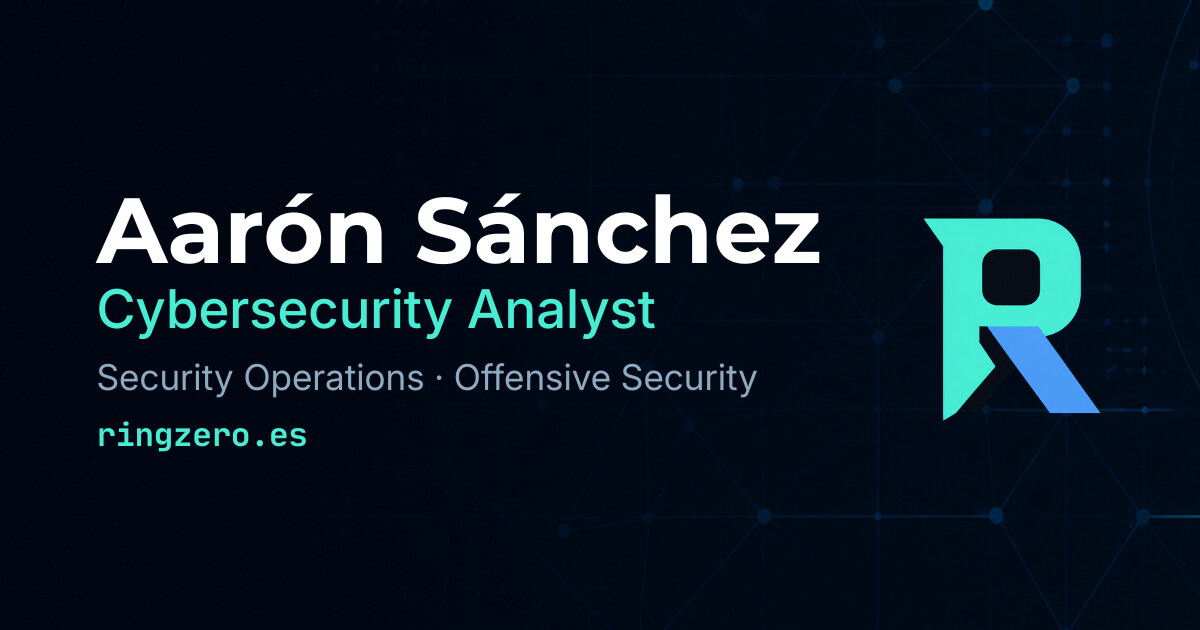
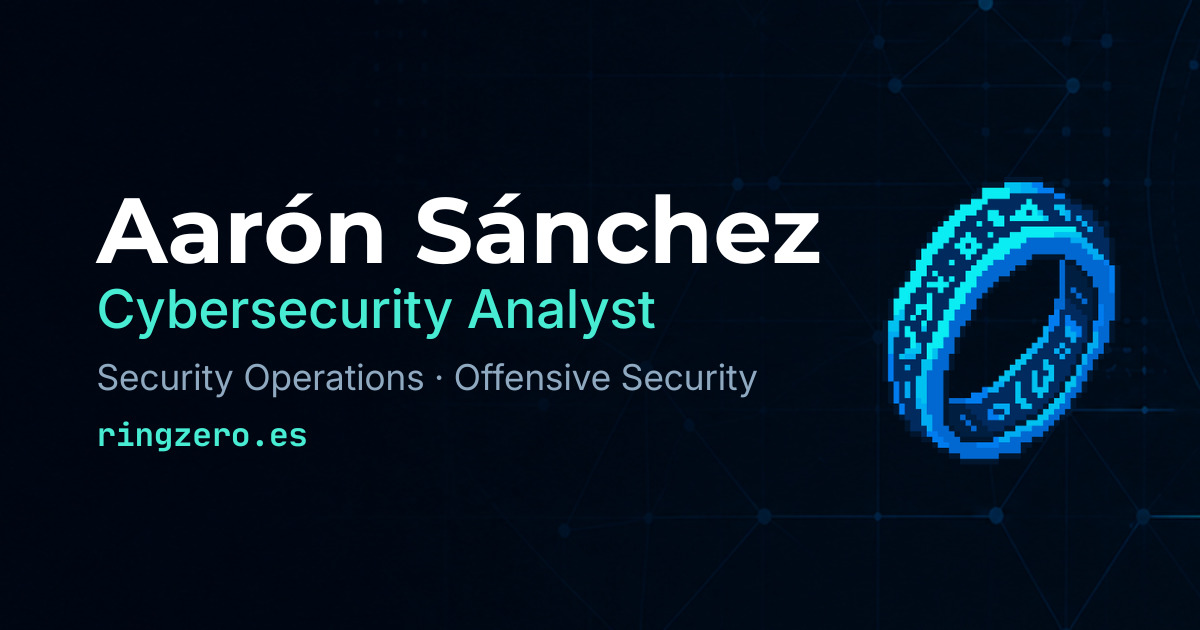
OG cover changed

Changed region(s): [[0.74, 0.2714, 0.9558, 0.754]]

diff --git a/index.html b/index.html
@@ -1,1 +1,1 @@
-<!doctype html><html lang="en"><head><title>Aarón Sánchez | Cybersecurity Analyst</title><meta charset="utf-8"/><link rel="icon" href="./favicon.ico"/><link rel="icon" type="image/png" href="./favicon-16x16.png"><link rel="icon" type="image/png" href="./favicon-32x32.png"><meta name="viewport" content="width=device-width,initial-scale=1"/><meta name="theme-color" content="#000000"/><meta name="description" content="Cybersecurity Analyst working in Security Operations and building practical experience in Offensive Security, Red Teaming and web security."/><link rel="canonical" href="https://www.ringzero.es/"/><meta property="og:type" content="website"/><meta property="og:url" content="https://www.ringzero.es/"/><meta property="og:title" content="Aarón Sánchez | Cybersecurity Portfolio"/><meta property="og:description" content="Security tooling, networking and offensive-security projects."/><meta property="og:image" content="https://www.ringzero.es/og-cover.jpg"/><meta property="og:image:alt" content="Aarón Sánchez Cybersecurity Portfolio"/><meta name="twitter:card" content="summary_large_image"/><meta property="twitter:title" content="Aarón Sánchez | Cybersecurity Portfolio"/><meta property="twitter:description" content="Security tooling, networking and offensive-security projects."/><meta property="twitter:image" content="https://www.ringzero.es/og-cover.jpg"/><meta property="twitter:image:alt" content="Aarón Sánchez Cybersecurity Portfolio"/><link rel="manifest" href="./manifest.json"/><script defer="defer" src="./static/js/main.56456a82.js"></script><link href="./static/css/main.6caba9db.css" rel="stylesheet"></head><body><noscript>Enable JavaScript in your browser to view the page</noscript><div id="root"></div></body></html>
+<!doctype html><html lang="en"><head><title>Aarón Sánchez | Cybersecurity Analyst</title><meta charset="utf-8"/><link rel="icon" href="./favicon.ico"/><meta name="viewport" content="width=device-width,initial-scale=1"/><meta name="theme-color" content="#000000"/><meta name="description" content="Cybersecurity Analyst working in Security Operations and building practical experience in Offensive Security, Red Teaming and web security."/><link rel="canonical" href="https://www.ringzero.es/"/><meta property="og:type" content="website"/><meta property="og:url" content="https://www.ringzero.es/"/><meta property="og:title" content="Aarón Sánchez | Cybersecurity Portfolio"/><meta property="og:description" content="Security tooling, networking and offensive-security projects."/><meta property="og:image" content="https://www.ringzero.es/og-cover.jpg"/><meta property="og:image:alt" content="Aarón Sánchez Cybersecurity Portfolio"/><meta name="twitter:card" content="summary_large_image"/><meta property="twitter:title" content="Aarón Sánchez | Cybersecurity Portfolio"/><meta property="twitter:description" content="Security tooling, networking and offensive-security projects."/><meta property="twitter:image" content="https://www.ringzero.es/og-cover.jpg"/><meta property="twitter:image:alt" content="Aarón Sánchez Cybersecurity Portfolio"/><link rel="manifest" href="./manifest.json"/><script defer="defer" src="./static/js/main.56456a82.js"></script><link href="./static/css/main.6caba9db.css" rel="stylesheet"></head><body><noscript>Enable JavaScript in your browser to view the page</noscript><div id="root"></div></body></html>
